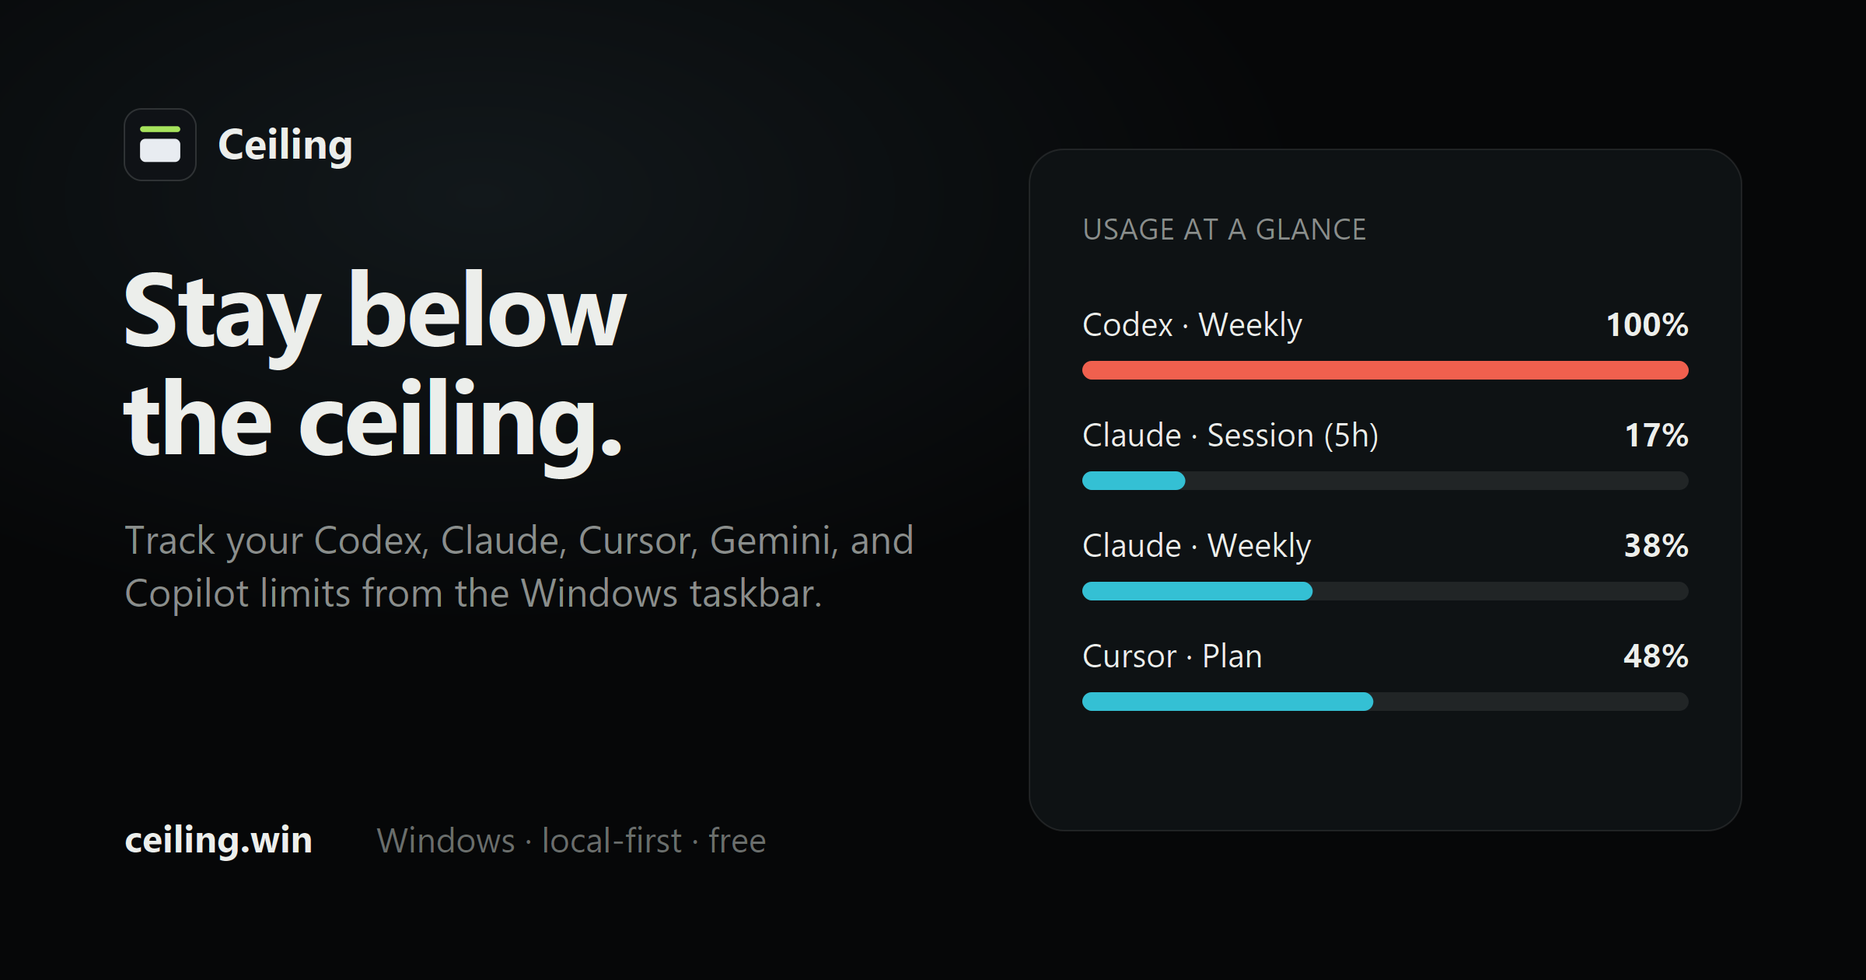
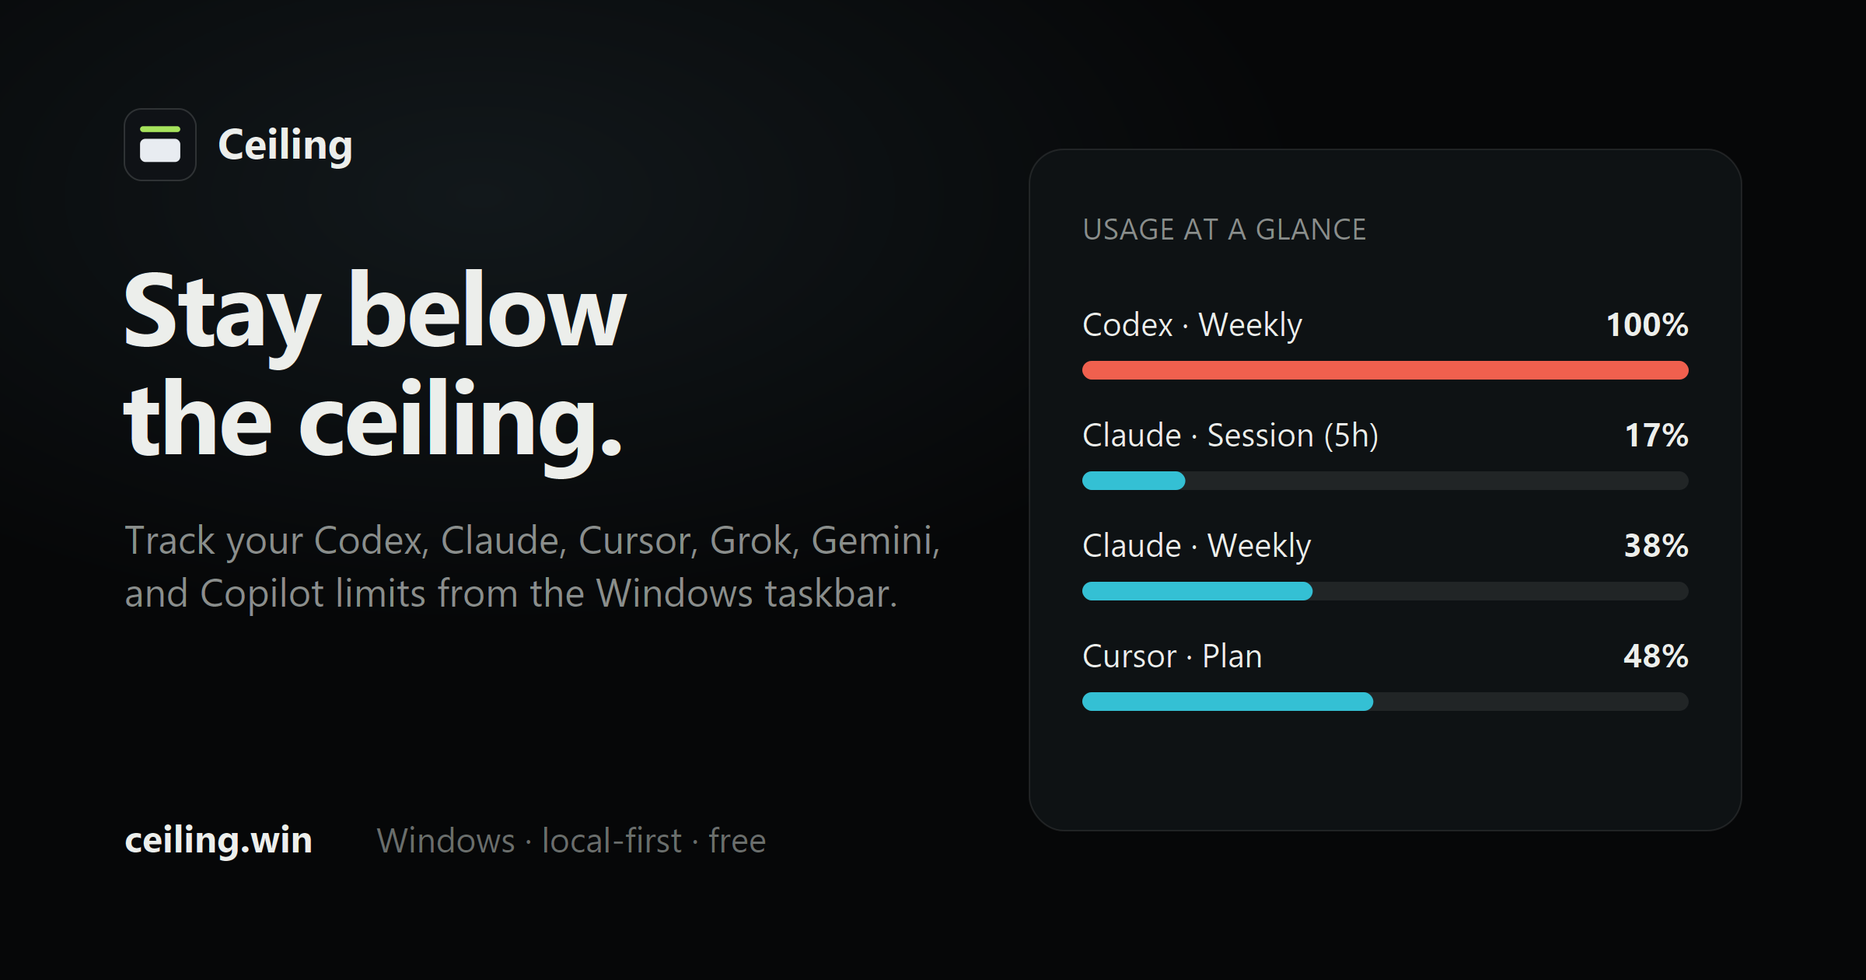
Use the real monochrome OpenCode mark, refresh marketing assets (#317)
## Summary

Two related commits: an app fix for the OpenCode brand mark, and the
marketing refresh that depends on it.

### The OpenCode mark was never the real one

OpenCode's square-ring logo is monochrome, black on white or white on
black. Nothing showed it that way:

- The native taskbar strip painted it in `#3b82f6`, an invented blue.
Reported as looking like it picked up the Windows accent colour; it did
not, the hex was hardcoded in two places.
- The bundled SVG carried a fixed `fill="#211E1E"`, which `tint()` does
not rewrite (it only swaps white fills), so the dashboard drew a
near-black square on a near-black card.

Both now use the light neutral that `grok` already uses for the same
reason, and the SVGs use `currentColor` so they follow the theme. Chart
bars move to the mid gray Grok already uses.

### Marketing was stale

- Screenshots dated from when Ceiling tracked three providers. New
captures show six, across several accounts, with banked resets and the
named states that shipped since.
- Grok was missing from every provider list except the GitHub About: the
site's visible list, its `description` meta, its schema.org
`description`, and both social cards. The cards are regenerated from
their SVG sources (verified byte-identical against the shipped PNGs
before editing, so the render path is unchanged).
- README said "core five" above a list of six, and never mentioned
Charts or multiple accounts.
[…]

Changed region(s): [[0.0625, 0.5262, 0.5, 0.619]]

diff --git a/site/index.html b/site/index.html
@@ -6,7 +6,7 @@
     <title>Ceiling — AI capacity, limits, and resets for Windows</title>
     <meta
       name="description"
-      content="Ceiling is a local-first Windows app that keeps AI capacity, reset times, alerts, and usage history nearby. Track Codex, Claude, Cursor, Gemini, and Copilot from the taskbar."
+      content="Ceiling is a local-first Windows app that keeps AI capacity, reset times, alerts, and usage history nearby. Track Codex, Claude, Cursor, Grok, Gemini, and Copilot from the taskbar."
     />
     <meta name="theme-color" content="#07090c" />
     <meta name="robots" content="index,follow,max-image-preview:large" />
@@ -52,7 +52,7 @@
             "name": "Ceiling",
             "operatingSystem": "Windows 10, Windows 11",
             "applicationCategory": "UtilitiesApplication",
-            "description": "A local-first Windows app that tracks AI subscription capacity, reset windows, alerts, and usage history for Codex, Claude, Cursor, Gemini, and Copilot.",
+            "description": "A local-first Windows app that tracks AI subscription capacity, reset windows, alerts, and usage history for Codex, Claude, Cursor, Grok, Gemini, and Copilot.",
             "url": "https://ceiling.win/",
             "downloadUrl": "https://ceiling.win/download",
             "image": "https://ceiling.win/og.png",
@@ -520,18 +520,18 @@
             <div class="taskbar">
               <img
                 src="/ceiling-taskbar.png"
-                width="863"
-                height="47"
+                width="1710"
+                height="79"
                 fetchpriority="high"
-                alt="Ceiling's capacity strip placed just above the Windows taskbar"
+                alt="Ceiling's capacity strip placed just above the Windows taskbar, showing Codex, Claude, Cursor, Grok, and OpenCode Go"
               />
             </div>
             <div class="overview-shot shot">
               <img
                 src="/ceiling-overview.png"
-                width="569"
-                height="685"
-                alt="Ceiling's overview showing Codex, Claude, and Cursor usage at a glance"
+                width="1040"
+                height="1357"
+                alt="Ceiling's overview showing Codex, Claude, Cursor, Grok, and OpenCode Go usage across several accounts"
               />
             </div>
           </div>
@@ -616,8 +616,8 @@
             <div class="shot taskbar-shot">
               <img
                 src="/ceiling-taskbar.png"
-                width="863"
-                height="47"
+                width="1710"
+                height="79"
                 loading="lazy"
                 alt="Ceiling's capacity strip integrated above the Windows taskbar"
               />
@@ -627,9 +627,9 @@
 
         <section class="providers" aria-labelledby="providers-heading">
           <h2 id="providers-heading">One quiet view for the plans you use.</h2>
-          <p>Ceiling currently supports the AI subscriptions and sessions that are hardest to keep track of during a working day.</p>
+          <p>These six get the most complete support, each with its data source documented individually. Many more, OpenCode among them, read from a local session or the provider's own usage endpoint.</p>
           <div class="provider-list" role="list" aria-label="Supported providers">
-            <span role="listitem">OpenAI Codex</span><span role="listitem">Claude</span><span role="listitem">Cursor</span><span role="listitem">Gemini</span><span role="listitem">GitHub Copilot</span>
+            <span role="listitem">OpenAI Codex</span><span role="listitem">Claude</span><span role="listitem">Cursor</span><span role="listitem">Grok</span><span role="listitem">Gemini</span><span role="listitem">GitHub Copilot</span>
           </div>
         </section>
 

diff --git a/apps/desktop-tauri/src/components/providers/providerIcons.test.ts b/apps/desktop-tauri/src/components/providers/providerIcons.test.ts
@@ -2,10 +2,61 @@ import { describe, expect, it } from "vitest";
 import { TEST_PROVIDER_CATALOG } from "../../test/providerCatalog";
 import { PROVIDER_ICON_REGISTRY } from "./providerIcons";
 
+/** Relative luminance per WCAG 2.x, for a `#rrggbb` string. */
+function luminance(hex: string): number {
+  const channels = [1, 3, 5].map((offset) => {
+    const value = parseInt(hex.slice(offset, offset + 2), 16) / 255;
+    return value <= 0.03928 ? value / 12.92 : ((value + 0.055) / 1.055) ** 2.4;
+  });
+  return 0.2126 * channels[0] + 0.7152 * channels[1] + 0.0722 * channels[2];
+}
+
+function contrast(a: string, b: string): number {
+  const [hi, lo] = [luminance(a), luminance(b)].sort((x, y) => y - x);
+  return (hi + 0.05) / (lo + 0.05);
+}
+
+// The two surfaces a provider icon actually sits on: the dark card and the
+// light one. Both ship, so brandColor has to clear a floor against each.
+const DARK_CARD = "#1c2026";
+const LIGHT_CARD = "#f5f7fa";
+
 describe("provider icon registry", () => {
   it("has explicit icon metadata for every provider in the catalog", () => {
     for (const [id] of TEST_PROVIDER_CATALOG) {
       expect(PROVIDER_ICON_REGISTRY[id], id).toBeDefined();
     }
   });
+
+  /**
+   * OpenCode ships one monochrome square-ring mark, black on white and white
+   * on black. Neither end of that survives both themes, and `brandColor` is
+   * written straight into an inline `color` that a `[data-theme]` rule cannot
+   * override, so it has to be a middle shade. A near-white here scored about
+   * 1.1:1 on the light dashboard and the mark simply disappeared.
+   */
+  it.each(["opencode", "opencodego"])(
+    "keeps the %s mark legible on both the light and dark card",
+    (id) => {
+      const { brandColor } = PROVIDER_ICON_REGISTRY[id];
+      expect(contrast(brandColor, DARK_CARD)).toBeGreaterThan(2);
+      expect(contrast(brandColor, LIGHT_CARD)).toBeGreaterThan(2);
+    },
+  );
+
+  /**
+   * The bundled SVGs carried a hardcoded `fill="#211E1E"`. `tint()` only
+   * rewrites *white* fills, so that black survived into the dark dashboard as a
+   * near-invisible square. Every mark that ships an SVG has to reach
+   * `currentColor` for `brandColor` to mean anything at all.
+   */
+  it.each(["opencode", "opencodego"])(
+    "lets the %s SVG take its color from the registry",
+    (id) => {
+      const svg = PROVIDER_ICON_REGISTRY[id].svgPath;
+      expect(svg).toBeDefined();
+      expect(svg).toContain('fill="currentColor"');
+      expect(svg).not.toMatch(/fill="#[0-9a-f]{3,8}"/i);
+    },
+  );
 });

diff --git a/apps/desktop-tauri/src/components/providers/providerIcons.ts b/apps/desktop-tauri/src/components/providers/providerIcons.ts
@@ -157,8 +157,14 @@ export const PROVIDER_ICON_REGISTRY: Record<string, ProviderIcon> = {
   ollama:      { id: "ollama",      brandColor: "#8b95b0", fallbackLetter: "○", svgPath: RAW.ollama },
   azureopenai: { id: "azureopenai", brandColor: "#0078d4", fallbackLetter: "A" },
   t3chat:      { id: "t3chat",      brandColor: "#8b5cf6", fallbackLetter: "T", svgPath: RAW.t3chat },
-  opencode:    { id: "opencode",    brandColor: "#3b82f6", fallbackLetter: "○", svgPath: RAW.opencode },
-  opencodego:  { id: "opencodego",  brandColor: "#3b82f6", fallbackLetter: "○", svgPath: RAW.opencodego },
+  // OpenCode's square-ring mark is monochrome (black on white, white on black),
+  // so there is no brand hue to use. brandColor is baked into an inline `color`
+  // and also paints the fallback letter and legend dots, which a theme override
+  // cannot reach, so it has to be one shade that survives both themes rather
+  // than either end of the brand. This is the mid gray `--chart-opencode`
+  // already uses; a near-white here vanished on the light dashboard.
+  opencode:    { id: "opencode",    brandColor: "#9ca3af", fallbackLetter: "○", svgPath: RAW.opencode },
+  opencodego:  { id: "opencodego",  brandColor: "#9ca3af", fallbackLetter: "○", svgPath: RAW.opencodego },
   openrouter:  { id: "openrouter",  brandColor: "#6b7280", fallbackLetter: "R", svgPath: RAW.openrouter },
   perplexity:  { id: "perplexity",  brandColor: "#1fb8cd", fallbackLetter: "P", svgPath: RAW.perplexity },
   vertexai:    { id: "vertexai",    brandColor: "#4285f4", fallbackLetter: "△", svgPath: RAW.vertexai },

diff --git a/apps/desktop-tauri/src/components/charts/chartPalette.test.ts b/apps/desktop-tauri/src/components/charts/chartPalette.test.ts
@@ -27,6 +27,18 @@ describe("chartPalette.providerColor", () => {
     );
   });
 
+  /**
+   * OpenCode and OpenCode Go share one monochrome mark, so a reader seeing two
+   * OpenCode tabs expects one color. Only `opencode` was mapped, so the Go
+   * variant fell through to the generic cost blue and the pair looked unrelated.
+   */
+  it("gives OpenCode Go the same token as OpenCode", () => {
+    const expected = "var(--chart-opencode, var(--chart-cost))";
+    expect(providerCostColor("opencode")).toBe(expected);
+    expect(providerCostColor("opencodego")).toBe(expected);
+    expect(providerCostColor("OpenCode Go")).toBe(expected);
+  });
+
   it("falls back to the generic cost/credits token for unknown providers", () => {
     expect(providerCostColor("unknown-provider-xyz")).toBe("var(--chart-cost)");
     expect(providerCreditsColor("another-ghost")).toBe(

diff --git a/apps/desktop-tauri/src/components/charts/chartPalette.ts b/apps/desktop-tauri/src/components/charts/chartPalette.ts
@@ -26,6 +26,10 @@ const PROVIDER_TOKEN: Record<string, string> = {
   "kimi k2": "--chart-kimik2",
   kiro: "--chart-kiro",
   opencode: "--chart-opencode",
+  // OpenCode Go shares the mark, so it shares the token. Without this it fell
+  // through to the generic cost blue while plain OpenCode went gray.
+  opencodego: "--chart-opencode",
+  "opencode go": "--chart-opencode",
   minimax: "--chart-minimax",
   vertexai: "--chart-vertexai",
   "vertex ai": "--chart-vertexai",

diff --git a/apps/desktop-tauri/src/styles.css b/apps/desktop-tauri/src/styles.css
@@ -140,7 +140,8 @@
   --chart-kimi: rgb(254, 96, 60);
   --chart-kimik2: rgb(76, 0, 255);
   --chart-kiro: rgb(255, 153, 0);
-  --chart-opencode: rgb(59, 130, 246);
+  /* OpenCode mark is monochrome; chart bars use a readable mid gray (icons use brandColor). */
+  --chart-opencode: rgb(156, 163, 175);
   --chart-minimax: rgb(254, 96, 60);
   --chart-vertexai: rgb(66, 133, 244);
   --chart-zai: rgb(232, 90, 106);

diff --git a/apps/desktop-tauri/src-tauri/src/taskbar_widget.rs b/apps/desktop-tauri/src-tauri/src/taskbar_widget.rs
@@ -1707,7 +1707,7 @@ mod windows_host {
 
         for (index, provider) in model.providers.iter().enumerate() {
             let item_left = i32::try_from(index).unwrap_or(0) * item_width;
-            let color = provider_color(&provider.provider_id);
+            let color = provider_color(&provider.provider_id, model.dark_text);
             const ICON_WIDTH: i32 = 16;
             const ICON_TEXT_GAP: i32 = 5;
             // Widest spelling that stays inside this tile. The strip paints
@@ -1896,20 +1896,89 @@ mod windows_host {
         }
     }
 
-    fn provider_color(provider_id: &str) -> u32 {
+    /// Tile color for a provider mark.
+    ///
+    /// `dark_text` is the strip's own read of `SystemUsesLightTheme`, so it is
+    /// also the answer to "is the taskbar behind this mark light?". A brand with
+    /// a real hue reads on either chrome and ignores it. A monochrome brand does
+    /// not: it ships as black-on-white *and* white-on-black precisely because one
+    /// shade cannot serve both, so painting one fixed shade leaves it at roughly
+    /// 1:1 against half of all taskbars (SBS-876 follow-up).
+    fn provider_color(provider_id: &str, dark_text: bool) -> u32 {
         match provider_id {
             "claude" => rgb(216, 116, 75),
             "cursor" => rgb(15, 201, 181),
             "codex" => rgb(64, 196, 222),
-            // xAI / Grok monogram is monochrome; light silver for dark taskbar chrome.
-            "grok" => rgb(231, 233, 234),
             // Match the web registry brand colors so strip and dashboard agree.
             "gemini" => rgb(171, 135, 234),
             "antigravity" | "agy" => rgb(96, 186, 126),
             "copilot" => rgb(168, 85, 247),
-            // Match the web registry (#3b82f6) so strip and dashboard agree.
-            "opencode" | "opencodego" => rgb(59, 130, 246),
+            // Monochrome marks; each takes the half of its own brand that the
+            // current taskbar can actually show.
+            "grok" if dark_text => rgb(24, 24, 24),
+            "grok" => rgb(231, 233, 234),
+            // #211E1E is OpenCode's own black, straight off the brand asset.
+            "opencode" | "opencodego" if dark_text => rgb(33, 30, 30),
+            "opencode" | "opencodego" => rgb(231, 233, 234),
+            _ if dark_text => rgb(72, 79, 88),
             _ => rgb(204, 211, 220),
+        }
+    }
+
+    #[cfg(test)]
+    mod tile_color_tests {
+        use super::*;
+
+        /// Relative luminance of a GDI COLORREF (0x00bbggrr), per WCAG 2.x.
+        fn luminance(color: u32) -> f64 {
+            let channel = |shift: u32| {
+                let value = ((color >> shift) & 0xff) as f64 / 255.0;
+                if value <= 0.03928 {
+                    value / 12.92
+                } else {
+                    ((value + 0.055) / 1.055).powf(2.4)
+                }
+            };
+            0.2126 * channel(0) + 0.7152 * channel(8) + 0.0722 * channel(16)
+        }
+
+        fn contrast(a: u32, b: u32) -> f64 {
+            let (x, y) = (luminance(a), luminance(b));
+            let (hi, lo) = if x > y { (x, y) } else { (y, x) };
+            (hi + 0.05) / (lo + 0.05)
+        }
+
+        #[test]
+        fn monochrome_marks_follow_the_taskbar_theme() {
+            // Windows 11 taskbars ship in both shades, and `dark_text` is the
+            // strip's own read of which one it is sitting on. A brand with no hue
+            // has to pick the half of itself the current chrome can show; one
+            // fixed shade left the mark at roughly 1:1 on half of all taskbars.
+            const DARK_TASKBAR: u32 = rgb(32, 32, 32);
+            const LIGHT_TASKBAR: u32 = rgb(243, 243, 243);
+
+            for id in ["opencode", "opencodego", "grok"] {
+                let on_dark = provider_color(id, false);
+                let on_light = provider_color(id, true);
+                assert_ne!(on_dark, on_light, "{id} must not paint one fixed shade");
+                assert!(
+                    contrast(on_dark, DARK_TASKBAR) > 3.0,
+                    "{id} is unreadable on a dark taskbar"
+                );
+                assert!(
+                    contrast(on_light, LIGHT_TASKBAR) > 3.0,
+                    "{id} is unreadable on a light taskbar"
+                );
+            }
+
+            // A brand with a real hue reads on either chrome and stays put.
+            for id in ["claude", "cursor", "codex", "gemini", "copilot"] {
+                assert_eq!(
+                    provider_color(id, false),
+                    provider_color(id, true),
+                    "{id} has a brand hue and should not switch"
+                );
+            }
         }
     }
 

diff --git a/README.md b/README.md
@@ -1,5 +1,5 @@
 <p align="center">
-  <img src="site/ceiling-taskbar.png" alt="Ceiling's capacity strip above the Windows taskbar, showing Codex, Claude, and Cursor usage with reset times" width="820">
+  <img src="site/ceiling-taskbar.png" alt="Ceiling's capacity strip above the Windows taskbar, showing Codex, Claude, Cursor, Grok, and OpenCode Go usage with reset times" width="820">
 </p>
 
 <h1 align="center">Ceiling</h1>
@@ -26,7 +26,7 @@ Ceiling is a focused, local-first Windows companion for the AI subscriptions you
 
 The goal is not another giant provider dashboard. It is a fast, calm way to answer one question: **how much AI capacity do I have left, and when does it reset?**
 
-## Initial focus
+## Provider focus
 
 - OpenAI Codex
 - Claude
@@ -35,23 +35,25 @@ The goal is not another giant provider dashboard. It is a fast, calm way to answ
 - Gemini / Google AI
 - GitHub Copilot
 
-Additional providers remain available from the underlying foundation while Ceiling is narrowed around reliable support for the core five.
+These six get the most complete support, and each one has its data source documented individually. Banked resets are shown for Codex and Grok, the two providers that grant them. Many more providers remain available from the underlying foundation, and each reads from a local session or the provider's own usage endpoint. See [How Ceiling gets your data](docs/DATA_SOURCES.md) for the per-provider detail.
 
 <p align="center">
-  <img src="docs/images/ceiling-overview.png" alt="Ceiling's overview showing Codex, Claude, and Cursor usage at a glance" width="520">
+  <img src="docs/images/ceiling-overview.png" alt="Ceiling's overview showing Codex, Claude, Cursor, Grok, and OpenCode Go usage across several accounts" width="520">
 </p>
 
 ## What Ceiling feels like
 
 - **Taskbar-adjacent capacity strip:** Windows 11 does not support old-style third-party taskbar toolbars, so Ceiling uses a transparent, always-on-top strip that sits just above the taskbar without stealing focus.
 - **Tray at a glance:** a compact flyout with each provider's remaining capacity, reset time, source, and freshness.
+- **Several accounts per provider:** a personal and a work seat sit side by side, each with its own limits, resets, and charts.
+- **Usage history and charts:** tokens burned since your last reset with an estimated API value beside them, a 30-day breakdown by model and project, and Codex against Claude on the same rolling clock.
 - **Truthful state:** a visible distinction between live, cached, stale, and failed reads. No fake precision when a provider cannot report a limit cleanly.
 - **Usage and reset alerts:** optional toasts when you approach a limit, and when a window resets unexpectedly, is restored, or grants a banked reset.
 - **Local first:** credentials and usage data stay on the machine. Browser cookies, API keys, and login sources remain opt-in.
 - **Windows-native:** Tauri, React, and Rust; fast startup, low idle work, and system accent-aware appearance.
 
 <p align="center">
-  <img src="docs/images/ceiling-tray.png" alt="Ceiling's tray flyout with each provider's remaining capacity and reset time" width="320">
+  <img src="docs/images/ceiling-tray.png" alt="Ceiling's tray flyout listing each account's remaining capacity, banked resets, and reset time" width="320">
 </p>
 
 ## Download

diff --git a/CHANGELOG.md b/CHANGELOG.md
@@ -8,6 +8,7 @@
 
 ### Fixed
 - **Opening Settings from the floating bar no longer lands on General.** The bar asked for a `menuBar` tab the Settings window does not have, so the window fell back to General instead of Display. It now opens Display, the same tab the dashboard already uses for that action. The lists that name a Settings tab on each side of the bridge are compared in CI so a renamed tab cannot silently send you to General again.
+- **The OpenCode mark now matches the real brand, and stays visible on a light taskbar.** OpenCode's square-ring logo is monochrome, black on white or white on black, but nothing showed it that way. The taskbar strip painted it in an invented blue, and the dashboard drew it in the near-black taken straight from the brand asset, which left it almost invisible against a dark card. The strip now paints whichever half of the brand the taskbar behind it can actually show, which also fixes the Grok monogram beside it: both were a fixed near-white that disappeared on a light Windows theme. The dashboard cannot switch per theme the same way, so it takes one mid gray that clears both, the same one its chart bars use; the bundled SVGs now take their fill from that value instead of carrying their own. OpenCode Go charts pick up that gray too, having previously fallen through to the generic cost blue.
 - **Cursor no longer treats missing usage as zero.** An empty `individualUsage` object used to paint a 0% monthly bar and hide a real team pool sitting next to it. Monthly is now marked unavailable when Cursor reports no reading, and an empty individual object falls through to team usage. Glance surfaces no longer paint a 0% Plan bar when monthly is unavailable — Overview, flyout, detail, floating bar, and the native taskbar tile show the named state instead. On-demand stays billed spend; plan and included dollars are labeled **Included** so they are not read as an invoice. A missing Composer tracking database is shown as unavailable, not as no activity.
 - **Leftover English on glance surfaces now goes through locale keys.** Floatbar settings, freshness chips, account-status labels, Charts tab names, and About update copy used hardcoded English. They now use `en-US.ftl` (and zh-CN) so chips no longer show raw `stale` / `error` tokens.
 - **Refreshing model prices no longer blanks out the prices you already had.** The models.dev price cache was emptied before the new copy was written, so a second Ceiling process reading during that moment saw nothing, and a crash mid-write threw the cache away for good. Either way token costs quietly disappeared until a network refresh worked. The new copy is now written beside the old one and swapped in, so there is never a moment with no prices on disk.
